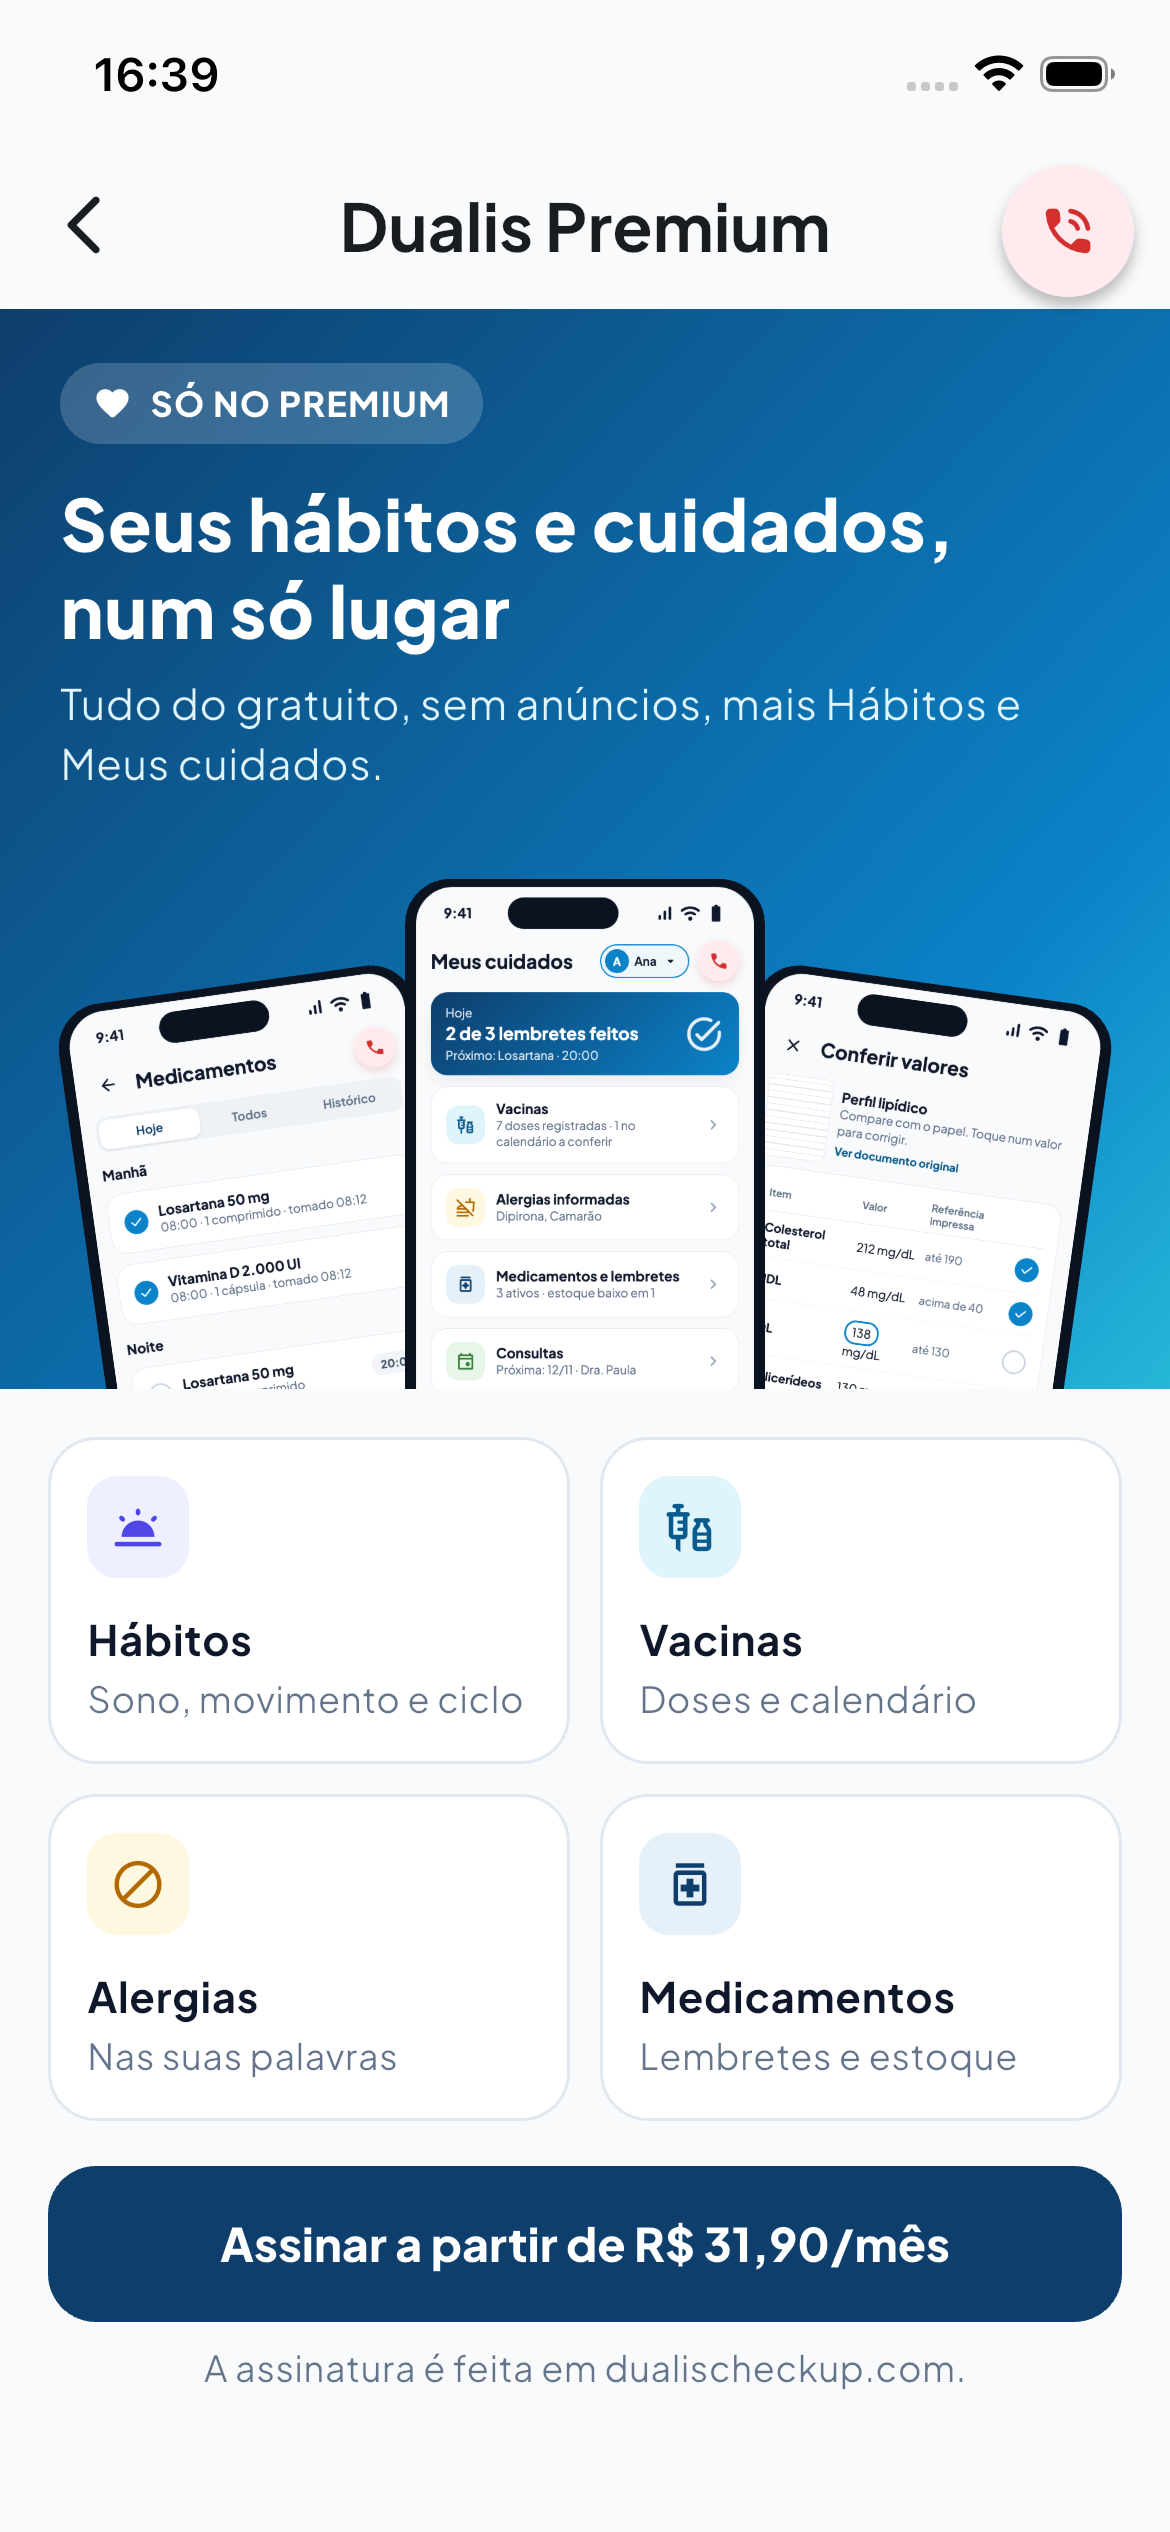
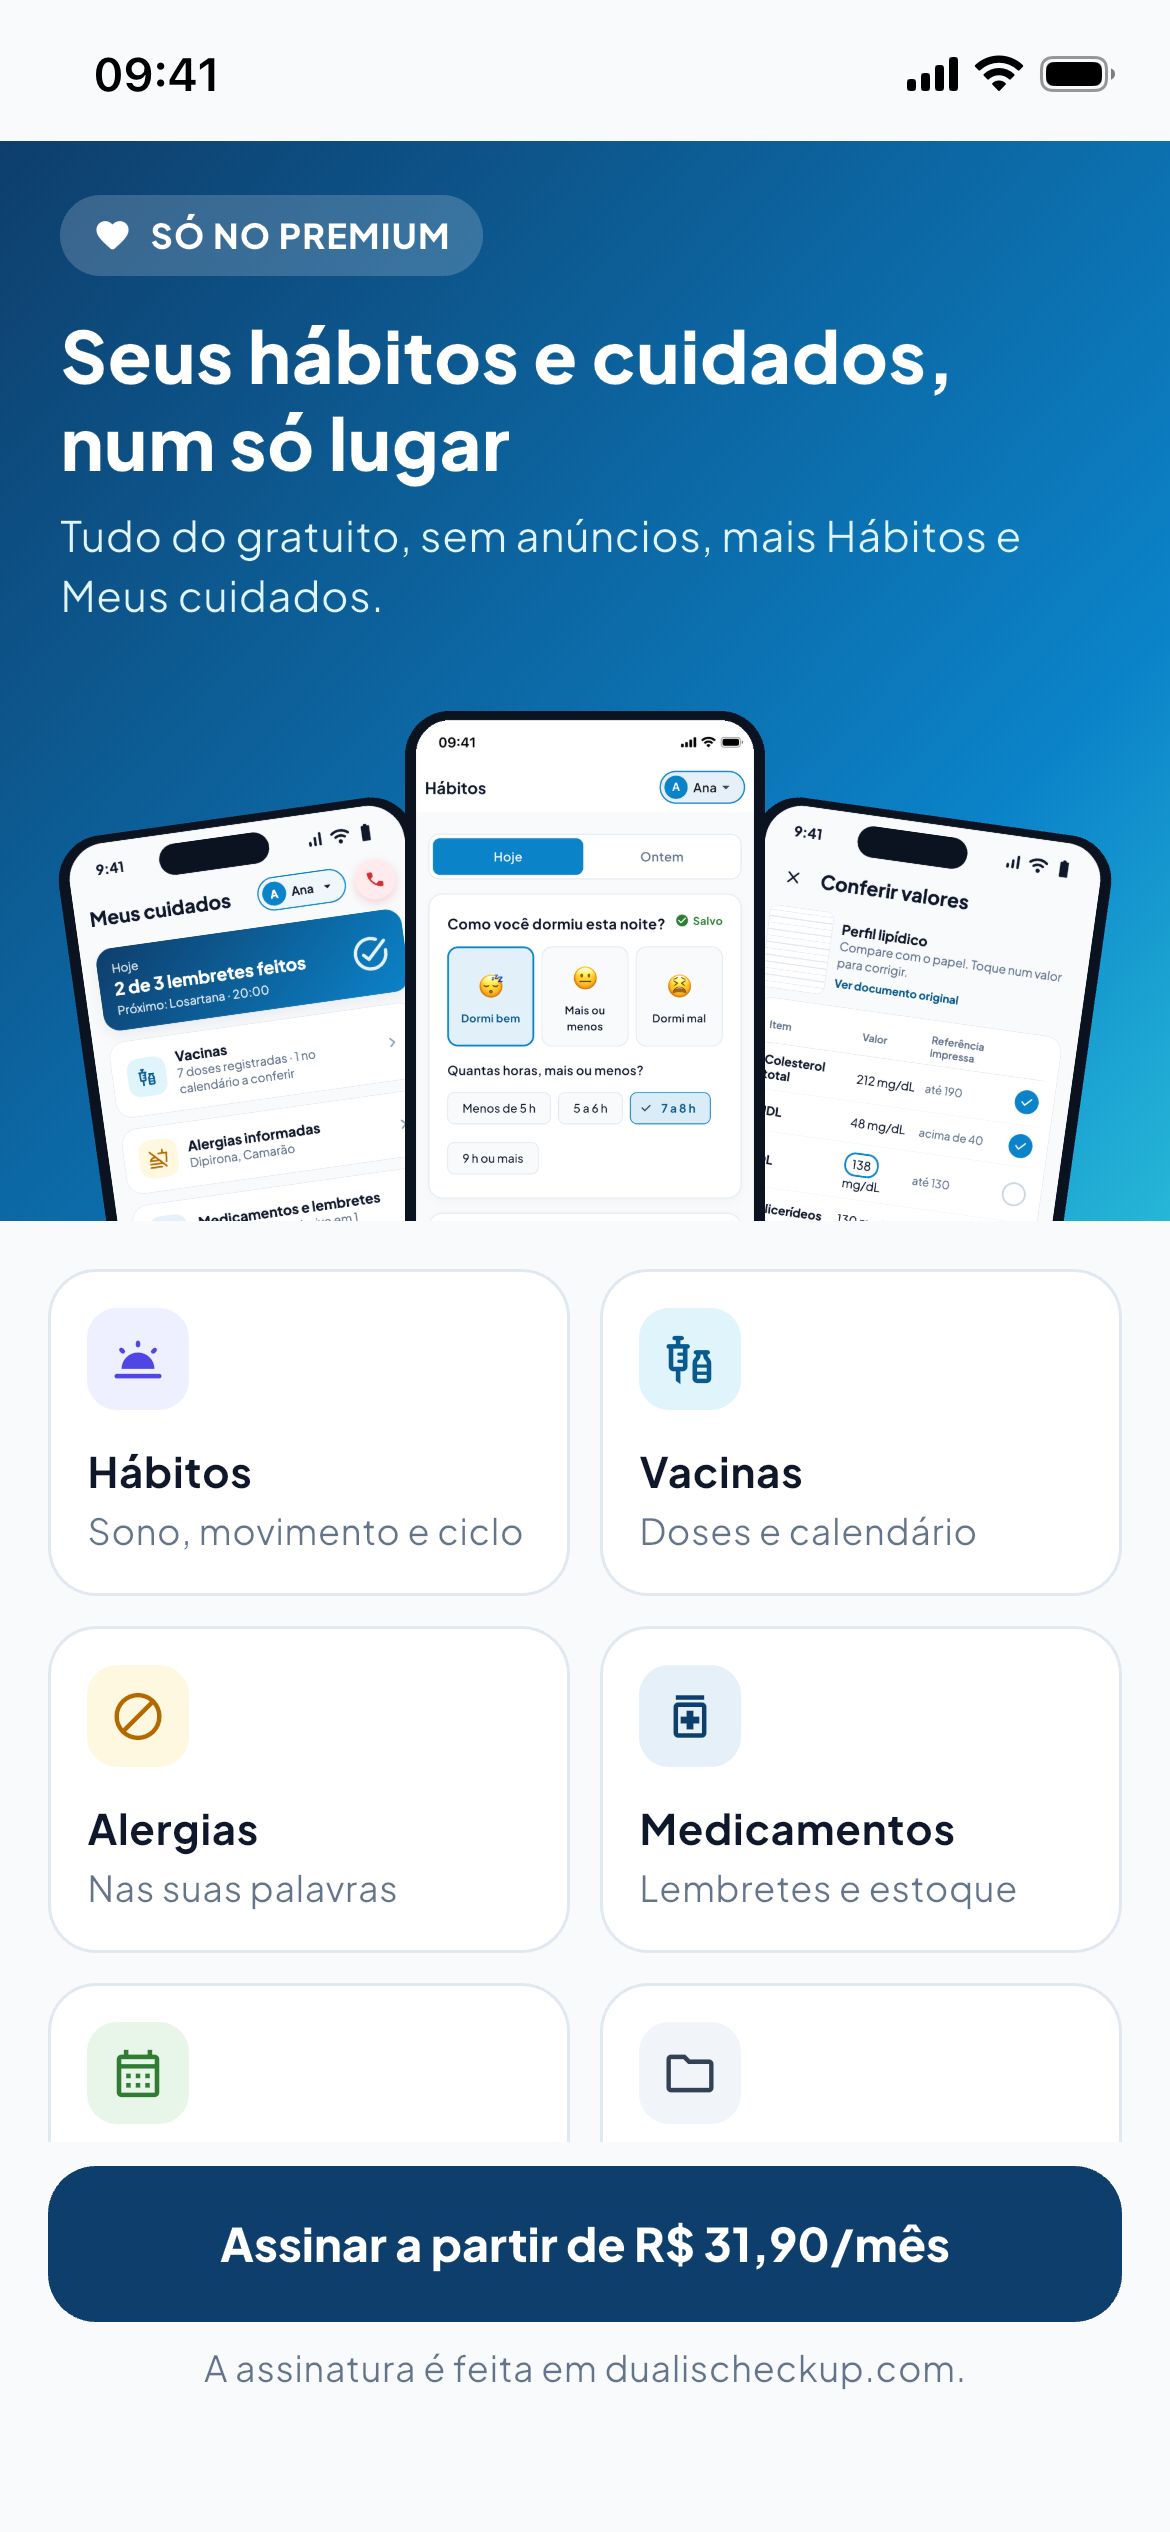
feat(premium): show Habits in the Premium promo and house ad
The promo hero and the Dualis Premium house ad now show the real Premium
"Hábitos" tab (rendered on the simulator with demo data, same phone frame
as the other images). The hero fan is now care, habits (centre) and exams.
The medication image is no longer used and is removed.

Client preview screenshots for the promo and the ad are updated.

diff --git a/mobile/lib/features/care/presentation/screens/premium_promo_screen.dart b/mobile/lib/features/care/presentation/screens/premium_promo_screen.dart
@@ -220,9 +220,9 @@ class _Hero extends StatelessWidget {
 
   /// (asset, rotation, horizontal offset from centre, top). Last is on top.
   static const _screens = [
-    ('lib/assets/brand/premium_screen_medication.png', -0.14, -100.0, 34.0),
+    ('lib/assets/brand/premium_screen_care.png', -0.14, -100.0, 34.0),
     ('lib/assets/brand/premium_screen_exams.png', 0.14, 100.0, 34.0),
-    ('lib/assets/brand/premium_screen_care.png', 0.0, 0.0, 0.0),
+    ('lib/assets/brand/premium_screen_habits.png', 0.0, 0.0, 0.0),
   ];
 
   @override

diff --git a/mobile/lib/features/house_ads/presentation/house_ad_card.dart b/mobile/lib/features/house_ads/presentation/house_ad_card.dart
@@ -263,7 +263,7 @@ class _BrandStyle {
           tags: l10n.xv2AdPremiumTags,
           cta: l10n.xv2AdPremiumCta,
           footnote: l10n.xv2AdPremiumPrice,
-          screenshot: 'lib/assets/brand/premium_screen_care.png',
+          screenshot: 'lib/assets/brand/premium_screen_habits.png',
         );
       case 'zoc':
         return _BrandStyle(
